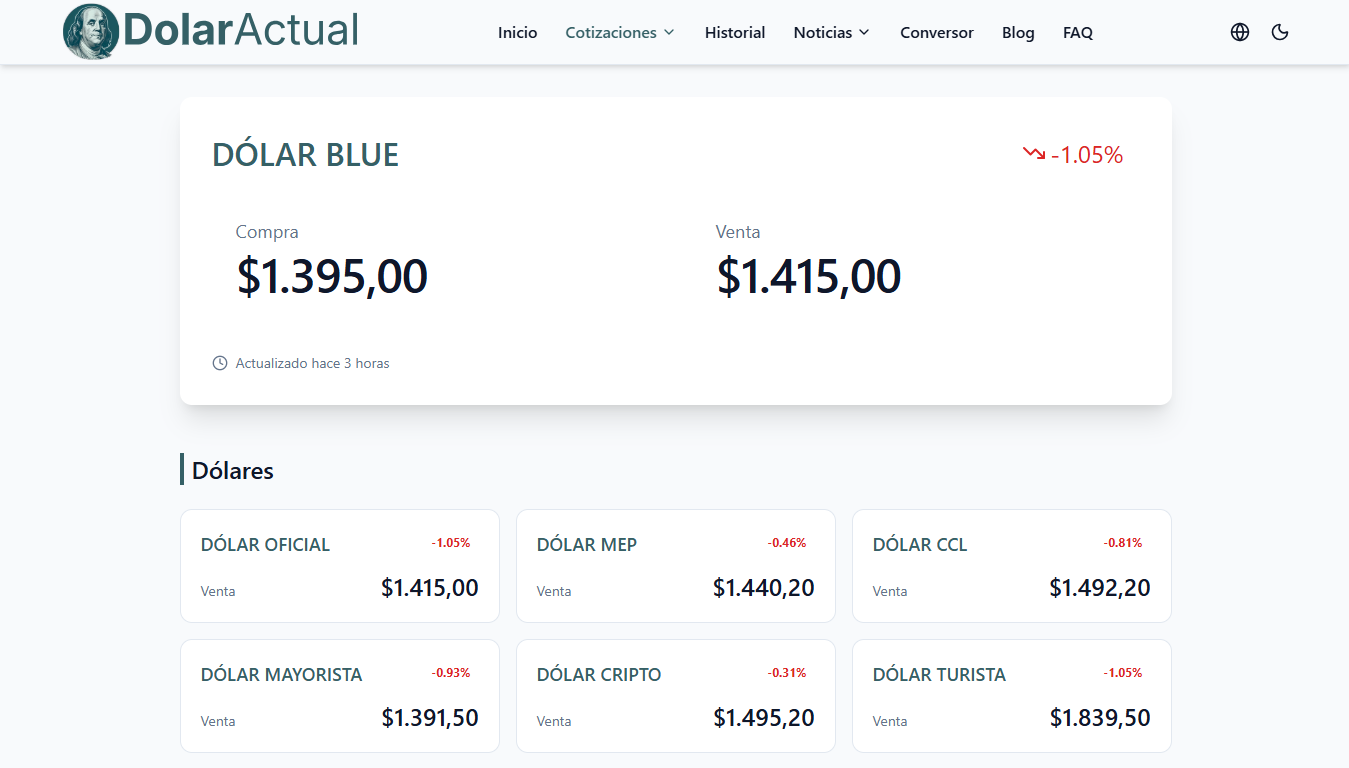
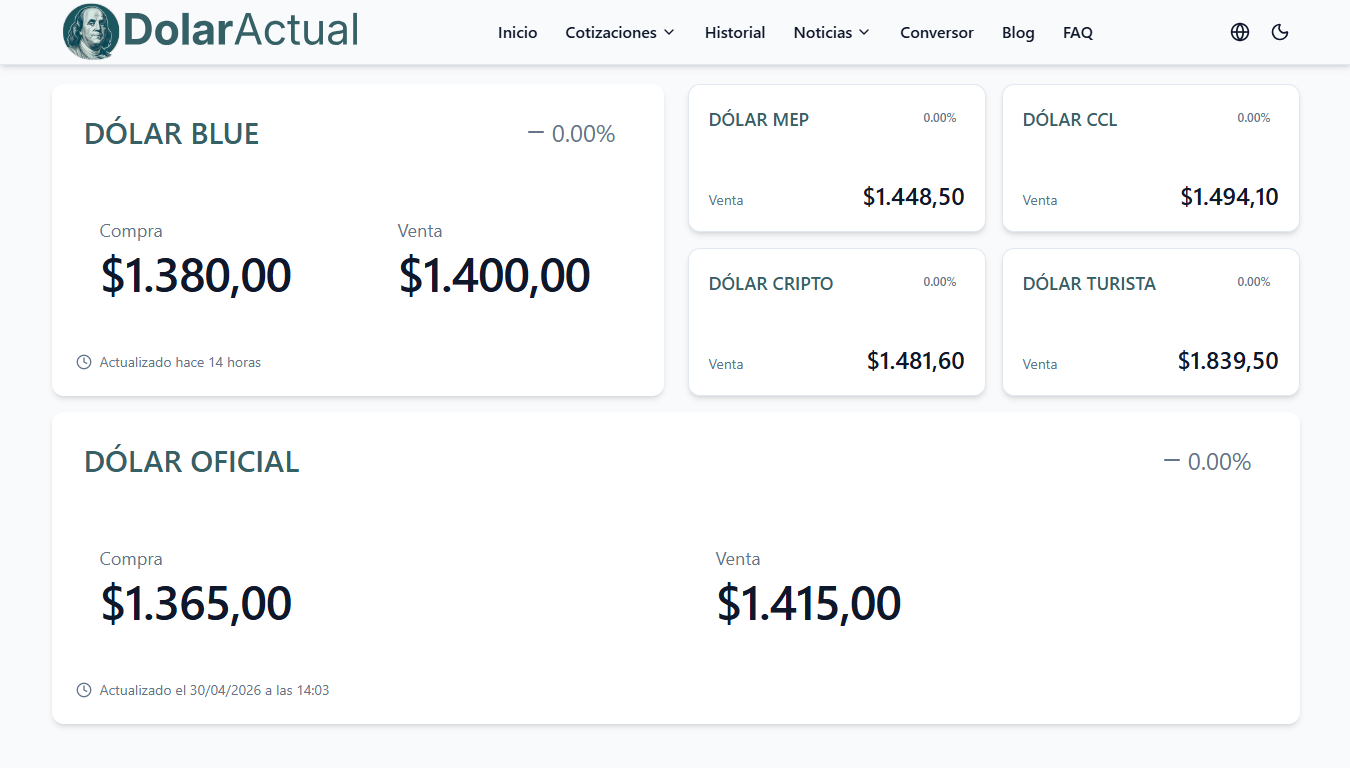
Estilizacion de captura de pantallas de proyectos

diff --git a/app/globals.css b/app/globals.css
@@ -63,60 +63,60 @@
 }
 
 .dark {
-  --background: oklch(0.145 0 0);
-  --foreground: oklch(0.985 0 0);
-  --card: oklch(0.205 0 0);
-  --card-foreground: oklch(0.985 0 0);
-  --popover: oklch(0.205 0 0);
-  --popover-foreground: oklch(0.985 0 0);
-  --primary: oklch(0.922 0 0);
-  --primary-foreground: oklch(0.205 0 0);
-  --secondary: oklch(0.269 0 0);
-  --secondary-foreground: oklch(0.985 0 0);
-  --muted: oklch(0.269 0 0);
-  --muted-foreground: oklch(0.708 0 0);
-  --accent: oklch(0.269 0 0);
-  --accent-foreground: oklch(0.985 0 0);
-  --destructive: oklch(0.704 0.191 22.216);
-  --border: oklch(1 0 0 / 10%);
-  --input: oklch(1 0 0 / 15%);
-  --ring: oklch(0.556 0 0);
-  --chart-1: oklch(0.87 0 0);
-  --chart-2: oklch(0.556 0 0);
-  --chart-3: oklch(0.439 0 0);
-  --chart-4: oklch(0.371 0 0);
-  --chart-5: oklch(0.269 0 0);
-  --sidebar: oklch(0.205 0 0);
-  --sidebar-foreground: oklch(0.985 0 0);
-  --sidebar-primary: oklch(0.488 0.243 264.376);
-  --sidebar-primary-foreground: oklch(0.985 0 0);
-  --sidebar-accent: oklch(0.269 0 0);
-  --sidebar-accent-foreground: oklch(0.985 0 0);
-  --sidebar-border: oklch(1 0 0 / 10%);
-  --sidebar-ring: oklch(0.556 0 0);
+  --background: #1f1f1f;
+  --foreground: #fafaf9;
+  --card: #353535;
+  --card-foreground: #fafaf9;
+  --popover: #353535;
+  --popover-foreground: #fafaf9;
+  --primary: #ebebeb;
+  --primary-foreground: #353535;
+  --secondary: #454545;
+  --secondary-foreground: #fafaf9;
+  --muted: #454545;
+  --muted-foreground: #b3b3b3;
+  --accent: #454545;
+  --accent-foreground: #fafaf9;
+  --destructive: #b63a1a;
+  --border: #ffffff19;
+  --input: #ffffff26;
+  --ring: #8d8d8d;
+  --chart-1: #dedede;
+  --chart-2: #8d8d8d;
+  --chart-3: #707070;
+  --chart-4: #5f5f5f;
+  --chart-5: #454545;
+  --sidebar: #353535;
+  --sidebar-foreground: #fafaf9;
+  --sidebar-primary: #4f46e5;
+  --sidebar-primary-foreground: #fafaf9;
+  --sidebar-accent: #454545;
+  --sidebar-accent-foreground: #fafaf9;
+  --sidebar-border: #ffffff19;
+  --sidebar-ring: #8d8d8d;
 }
 
 @layer base {
   :root {
-    --background: 215 35% 17%;
-    --foreground: 60 7% 87%;
-    --card: 215 35% 17%;
-    --card-foreground: 60 7% 87%;
-    --popover: 215 35% 17%;
-    --popover-foreground: 60 7% 87%;
-    --primary: 192 100% 50%;
-    --primary-foreground: 215 50% 10%;
-    --secondary: 215 30% 22%;
-    --secondary-foreground: 60 7% 87%;
-    --muted: 215 30% 22%;
-    --muted-foreground: 60 5% 65%;
-    --accent: 192 100% 50%;
-    --accent-foreground: 215 50% 10%;
-    --destructive: 0 70% 60%;
-    --destructive-foreground: 60 7% 95%;
-    --border: 215 25% 28%;
-    --input: 215 25% 28%;
-    --ring: 192 100% 50%;
+    --background: #1a3a50;
+    --foreground: #d8dcc5;
+    --card: #1a3a50;
+    --card-foreground: #d8dcc5;
+    --popover: #1a3a50;
+    --popover-foreground: #d8dcc5;
+    --primary: #00d4ff;
+    --primary-foreground: #0a1a33;
+    --secondary: #223344;
+    --secondary-foreground: #d8dcc5;
+    --muted: #223344;
+    --muted-foreground: #a9aca0;
+    --accent: #00d4ff;
+    --accent-foreground: #0a1a33;
+    --destructive: #ff4d4d;
+    --destructive-foreground: #ebe8e0;
+    --border: #334455;
+    --input: #334455;
+    --ring: #00d4ff;
     --radius: 0;
   }
 }
@@ -126,23 +126,43 @@
     @apply border-border outline-ring/50;
   }
   body {
-  margin: 0;
-  font-family: inherit;
-  -webkit-font-smoothing: antialiased;
-  -moz-osx-font-smoothing: grayscale;
-  background: var(--bg);
-  color: var(--text);
-}
+    margin: 0;
+    font-family: inherit;
+    -webkit-font-smoothing: antialiased;
+    -moz-osx-font-smoothing: grayscale;
+    background: var(--bg);
+    color: var(--text);
+  }
   html {
     font-family: Space Grotesk, Satoshi, -apple-system, BlinkMacSystemFont, sans-serif;
   }
 }
 
+
 @layer base {
   * {
     @apply border-border;
   }
+  
   body {
     @apply bg-background text-foreground;
+  }
+  
+  /* Reset completo de márgenes y padding en encabezados */
+  h1,
+  h2,
+  h3,
+  h4,
+  h5,
+  h6 {
+    margin-top: 0 !important;
+    margin-bottom: 0 !important;
+    margin-inline: 0 !important;
+    padding: 0 !important;
+  }
+  
+  /* Reset de párrafos */
+  p {
+    margin: 0 !important;
   }
 }

diff --git a/components/sections/Projects.jsx b/components/sections/Projects.jsx
@@ -20,7 +20,7 @@ const ProjectCard = ({ project }) => {
     >
       <div
         className={`relative w-full overflow-hidden ${
-          isFull ? "h-[420px] md:h-[560px]" : "h-[300px] md:h-[420px]"
+          isFull ? "h-105 md:h-140" : "h-75 md:h-105"
         }`}
       >
         <img
@@ -53,16 +53,20 @@ const ProjectCard = ({ project }) => {
         >
           {project.year}
         </span>
-        <span className="font-grotesk text-[10px] tracking-[0.32em] uppercase text-white/60">
+        {/* <span className="font-grotesk text-[10px] tracking-[0.32em] uppercase text-white/60">
           {project.client}
-        </span>
+        </span> */}
       </div>
 
       {/* Bottom content */}
       <div className="absolute left-0 right-0 bottom-0 p-6 md:p-8">
         <h3
           className="font-display text-2xl md:text-4xl mb-3"
-          style={{ color: "var(--text)", fontWeight: 700, letterSpacing: "-0.02em" }}
+          style={{
+            color: "var(--text)",
+            fontWeight: 700,
+            letterSpacing: "-0.02em",
+          }}
         >
           {project.title}
         </h3>
@@ -84,7 +88,8 @@ const ProjectCard = ({ project }) => {
               key={t}
               className="font-grotesk text-[10px] tracking-[0.2em] uppercase px-2.5 py-1 border"
               style={{
-                borderColor: "rgba(224,225,221,0.18)",
+                background: "rgba(13,20,33,0.05)",
+                backdropFilter: "blur(10px)",
                 color: "rgba(224,225,221,0.85)",
               }}
             >
@@ -115,7 +120,10 @@ const ProjectCard = ({ project }) => {
 
 const Projects = () => {
   return (
-    <section id="projects" className="relative w-full md:pl-[88px] py-24 md:py-32">
+    <section
+      id="projects"
+      className="relative w-full md:pl-[88px] py-24 md:py-32"
+    >
       <div className="max-w-[1400px] mx-auto px-6 md:px-12">
         <div className="flex items-end justify-between flex-wrap gap-6 mb-14 reveal">
           <div>
@@ -133,7 +141,11 @@ const Projects = () => {
             </div>
             <h2
               className="font-display text-3xl md:text-5xl"
-              style={{ color: "var(--text)", fontWeight: 700, letterSpacing: "-0.02em" }}
+              style={{
+                color: "var(--text)",
+                fontWeight: 700,
+                letterSpacing: "-0.02em",
+              }}
             >
               Proyectos seleccionados
             </h2>
@@ -142,7 +154,8 @@ const Projects = () => {
             className="font-grotesk text-sm md:text-base max-w-md"
             style={{ color: "rgba(224,225,221,0.65)" }}
           >
-            Una selección de trabajos recientes — productos digitales, sitios para marcas y experiencias interactivas.
+            Una selección de trabajos recientes — productos digitales, sitios
+            para marcas y experiencias interactivas.
           </p>
         </div>
 

diff --git a/components/sections/Hero.jsx b/components/sections/Hero.jsx
@@ -103,18 +103,18 @@ const Hero = () => {
         /> */}
       </div>
 
-      <div className="relative z-10 w-full md:pl-[88px]">
-        <div className="max-w-[1400px] mx-auto px-6 md:px-12 pb-24 md:pb-28 pt-32">
-          <div className="flex items-center gap-3 mb-8 reveal">
-            <span className="h-px w-12" style={{ background: "var(--accent)" }} />
-            <span className="font-grotesk text-[11px] tracking-[0.32em] uppercase text-[var(--accent)]">
-              Portfolio · 2026 · Full Stack Developer
+      <div className="relative z-10 w-full md:pl-22">
+        <div className="max-w-350 mx-auto px-6 md:px-12 pb-24 md:pb-28 pt-32">
+          <div className="flex items-center gap-3 mb-4 reveal">
+            <span className="font-grotesk text-[11px] tracking-[0.32em] uppercase text-accent">
+              Full Stack Developer
             </span>
           </div>
 
           <h1
             className="font-display reveal"
             style={{
+              margin: 0,
               fontWeight: 800,
               lineHeight: 0.92,
               letterSpacing: "-0.03em",
@@ -173,7 +173,7 @@ const Hero = () => {
               Scroll
             </span>
             <span
-              className="h-[1px] w-16"
+              className="h-px w-16"
               style={{ background: "rgba(255,255,255,0.25)" }}
             />
           </div>